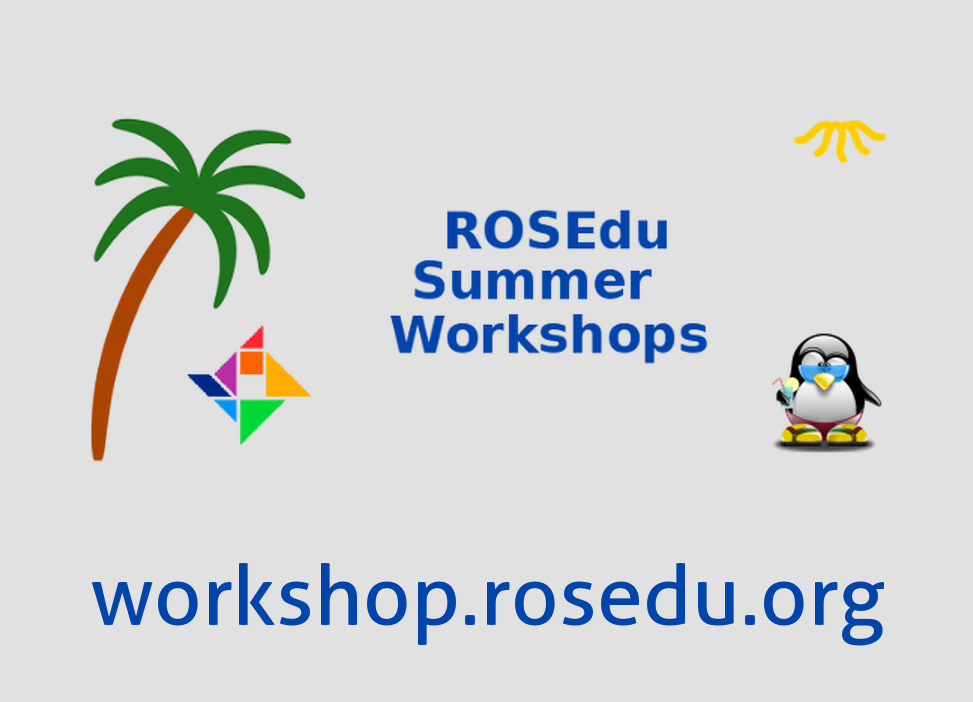
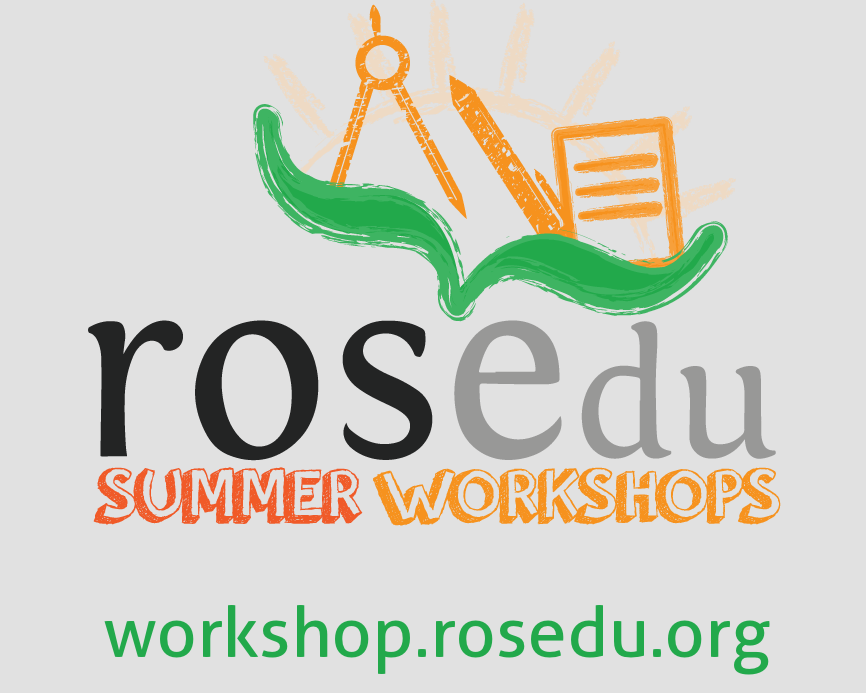
0a1212c a7351b7 43d1126 f017c0f 09dce52 ba0eccd Promote RSOC into a more prominent accordion position

Changed region(s): [[0.0935, 0.0, 0.9042, 0.7576], [0.0935, 0.7879, 0.9042, 0.9697], [0.8106, 0.1515, 0.9042, 0.2424]]

diff --git a/donations/index.html b/donations/index.html
@@ -86,11 +86,13 @@
 </div>
 <h2 id="donations">Donations</h2>
 
-<p>Make a donation in ROSEdu's account: <strong>RO98BTRL04501205R50291XX</strong>, Banca Transilvania S.A.</p>
+<p>Make a donation in ROSEdu&#39;s account: <strong>RO98BTRL04501205R50291XX</strong>, Banca Transilvania S.A.</p>
 
-<p><a href="http://doilasuta.ro/">Donate 2%</a> from your state tax, using <a href="https://drive.google.com/file/d/0By6_as_hLrdocE9tX3NmMjFvTTg/edit?usp=sharing">Form 230</a> (for income) or <a href="https://drive.google.com/file/d/0By6_as_hLrdoNU5MbWk3OElTa0E/edit?usp=sharing">Form 200</a> (for other types of income) which are already filled in with ROSEdu's data.</p>
+<p><a href="http://doilasuta.ro/">Donate 2%</a> from your state tax, using <a href="https://drive.google.com/file/d/0By6_as_hLrdocE9tX3NmMjFvTTg/edit?usp=sharing">Form 230</a> (for income) or <a href="https://drive.google.com/file/d/0By6_as_hLrdoNU5MbWk3OElTa0E/edit?usp=sharing">Form 200</a> (for other types of income) which are already filled in with ROSEdu&#39;s data.</p>
 
-<p>The deadline is <strong>23th of May 2014</strong>.</p>
+<p>The deadline is <strong>25th of May 2015</strong>.</p>
+
+<p>The form has to be sent to the <a href="www.anaf.ro">ANAF</a> agency from your jurisdiction. If you want us to sent the form for you, please <a href="http://www.rosedu.org/contact/">contact us</a>.</p>
 
 <h3 id="why">Why?</h3>
 
@@ -98,7 +100,7 @@
 
 <h3 id="sponsors">Sponsors</h3>
 
-<p>We are always searching for sponsors and partnerships for our programs. You can support ROSEdu's programs and, in exchange, we'll help you gain good visibility among the students and graduates that participate in our programs or attend our presentations. To find out more, do not hesitate to <a href="/contact">contact us</a>!</p>
+<p>We are always searching for sponsors and partnerships for our programs. You can support ROSEdu&#39;s programs and, in exchange, we&#39;ll help you gain good visibility among the students and graduates that participate in our programs or attend our presentations. To find out more, do not hesitate to <a href="/contact">contact us</a>!</p>
 
 	<div class="separator clear"></div>
 	<div id="footer">

diff --git a/ro/donations/index.html b/ro/donations/index.html
@@ -88,9 +88,11 @@
 </div>
 <h2 id="donaii">Donații</h2>
 
-<p>Fă o donație în contul Asociației ROSEdu: <strong>RO98BTRL04501205R50291XX</strong>, Banca Transilvania S.A.</p>
+<p>Poți face o donație în contul Asociației ROSEdu: <strong>RO98BTRL04501205R50291XX</strong>, Banca Transilvania S.A.</p>
 
-<p><a href="http://doilasuta.ro/">Donează 2%</a> din impozitul de stat, până pe <strong>23 mai 2014</strong>, cu ajutorul <a href="https://drive.google.com/file/d/0By6_as_hLrdocE9tX3NmMjFvTTg/edit?usp=sharing">Formularului 230</a> (pentru venit) și <a href="https://drive.google.com/file/d/0By6_as_hLrdoNU5MbWk3OElTa0E/edit?usp=sharing">Formularului 200</a> (pentru alte venituri) care sunt precompletate cu datele Asociației ROSEdu.</p>
+<p><a href="http://doilasuta.ro/">Donează 2%</a> din impozitul de stat, până pe <strong>25 mai 2015</strong>, cu ajutorul <a href="https://drive.google.com/file/d/0By6_as_hLrdocE9tX3NmMjFvTTg/edit?usp=sharing">Formularului 230</a> (pentru venit) și <a href="https://drive.google.com/file/d/0By6_as_hLrdoNU5MbWk3OElTa0E/edit?usp=sharing">Formularului 200</a> (pentru alte venituri) care sunt precompletate cu datele Asociației ROSEdu.</p>
+
+<p>Formularul trebuie trimis către agenția <a href="www.anaf.ro">ANAF</a> de care aparțineți. Dacă doriți să trimitem noi formularul, vă rugăm, să ne <a href="http://www.rosedu.org/contact/">contactați</a>.</p>
 
 <h3 id="de_ce">De ce?</h3>
 

diff --git a/ro/index.html b/ro/index.html
@@ -61,12 +61,12 @@
 
 <div id='accordion'>
 	<ol><li>
-    <h3><span>2% pentru ROSEdu</span></h3>
-    <div>
-    <figure>
-        <a href='/ro/donations'><img alt='' src='/resources/promo/2rosedu.png' /></a>
-    </figure>
-    </div>
+	<h3><span>ROSEdu Summer Workshops</span></h3>
+	<div>
+	<figure>
+		<a href='http://workshop.rosedu.org/'><img alt='' src='/resources/promo/workshop_promo_banner.png' /></a>
+	</figure>
+	</div>
 </li>
 <li>
 	<h3><span>ROSEdu Summer of Code</span></h3>
@@ -125,14 +125,6 @@
 	</div>
 </li>
 <li>
-	<h3><span>ROSEdu Summer Workshops</span></h3>
-	<div>
-	<figure>
-		<a href='http://workshop.rosedu.org/'><img alt='' src='/resources/promo/workshop_promo_banner.png' /></a>
-	</figure>
-	</div>
-</li>
-<li>
 	<h3><span>Open Source Summer School</span></h3>
 	<div>
 	<figure>
@@ -147,6 +139,14 @@
 		<a href='http://webdev.rosedu.org'><img alt='' src='/resources/promo/webdev_promo_banner.png' /></a>
 	</figure>
 	</div>
+</li>
+<li>
+    <h3><span>2% pentru ROSEdu</span></h3>
+    <div>
+    <figure>
+        <a href='/ro/donations'><img alt='' src='/resources/promo/2rosedu.png' /></a>
+    </figure>
+    </div>
 </li>
 
 </ol>

diff --git a/index.html b/index.html
@@ -58,10 +58,10 @@
 
 	<div id='accordion'>
 	<ol><li>
-	<h3><span>2% for ROSEdu</span></h3>
+	<h3><span>ROSEdu Summer Workshops</span></h3>
 	<div>
 	<figure>
-		<a href='/donations'><img alt='' src='resources/promo/2rosedu.png' /></a>
+		<a href='http://workshop.rosedu.org/'><img alt='' src='/resources/promo/workshop_promo_banner.png' /></a>
 	</figure>
 	</div>
 </li>
@@ -122,14 +122,6 @@
 	</div>
 </li>
 <li>
-	<h3><span>ROSEdu Summer Workshops</span></h3>
-	<div>
-	<figure>
-		<a href='http://workshop.rosedu.org/'><img alt='' src='/resources/promo/workshop_promo_banner.png' /></a>
-	</figure>
-	</div>
-</li>
-<li>
 	<h3><span>Open Source Summer School</span></h3>
 	<div>
 	<figure>
@@ -142,6 +134,14 @@
 	<div>
 	<figure>
 		<a href='http://webdev.rosedu.org'><img alt='' src='/resources/promo/webdev_promo_banner.png' /></a>
+	</figure>
+	</div>
+</li>
+<li>
+	<h3><span>2% for ROSEdu</span></h3>
+	<div>
+	<figure>
+		<a href='/donations'><img alt='' src='resources/promo/2rosedu.png' /></a>
 	</figure>
 	</div>
 </li>

diff --git a/aboutus/index.html b/aboutus/index.html
@@ -86,9 +86,9 @@
 </div>
 <h1 id="about_us">About Us</h1>
 
-<h3 id="rosedus_mission">ROSEdu's Mission</h3>
+<h3 id="rosedus_mission">ROSEdu&#39;s Mission</h3>
 
-<p><strong>ROSEdu's mission is to initiate, support and develop education based on the values of Open Source.</strong></p>
+<p><strong>ROSEdu&#39;s mission is to initiate, support and develop education based on the values of Open Source.</strong></p>
 
 <p>At ROSEdu, we believe in the importance of education and the learning process. We believe that through communication and collaboration, we can learn from each other, create new things and contribute to existing projects.</p>
 

diff --git a/gsoc/index.html b/gsoc/index.html
@@ -86,7 +86,7 @@
 </div>
 <h1 id="google_summer_of_code">Google Summer of Code</h1>
 
-<p><strong>If you get admitted, please, let us know :-), since there's no official university based acceptance list</strong></p>
+<p><strong>If you get admitted, please, let us know :-), since there&#39;s no official university based acceptance list</strong></p>
 
 <p>Slides: <a href='http://google-summer-of-code.googlecode.com/files/GSoC2011-Base-V2.pdf'>http://google-summer-of-code.googlecode.com/files/GSoC2011-Base-V2.pdf</a></p>
 
